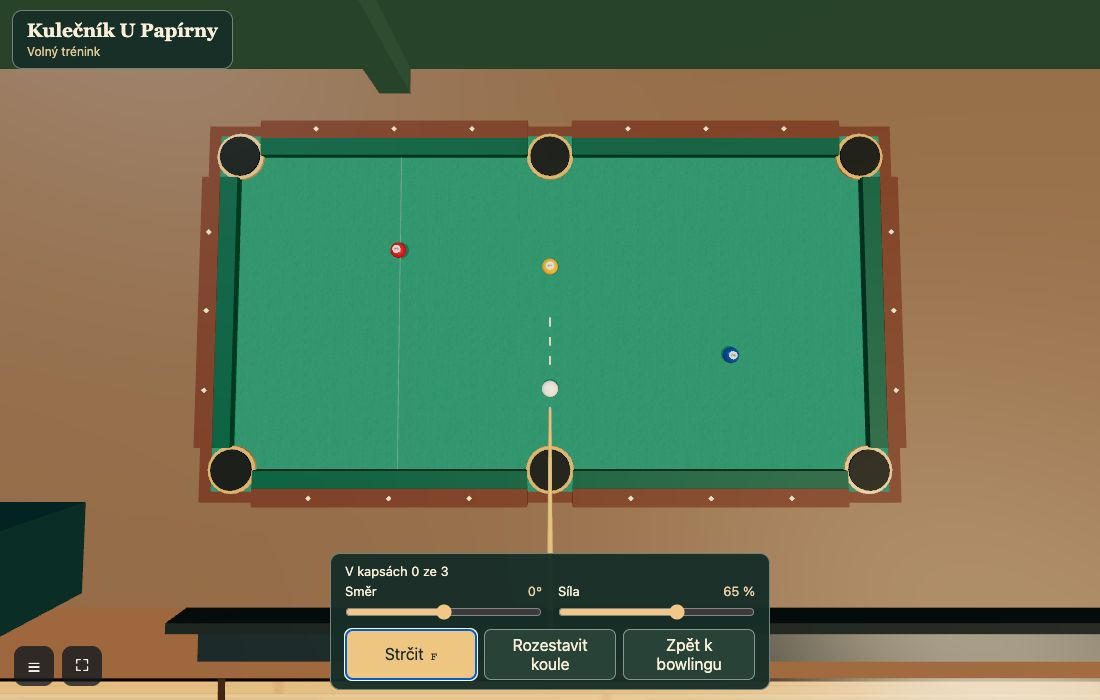
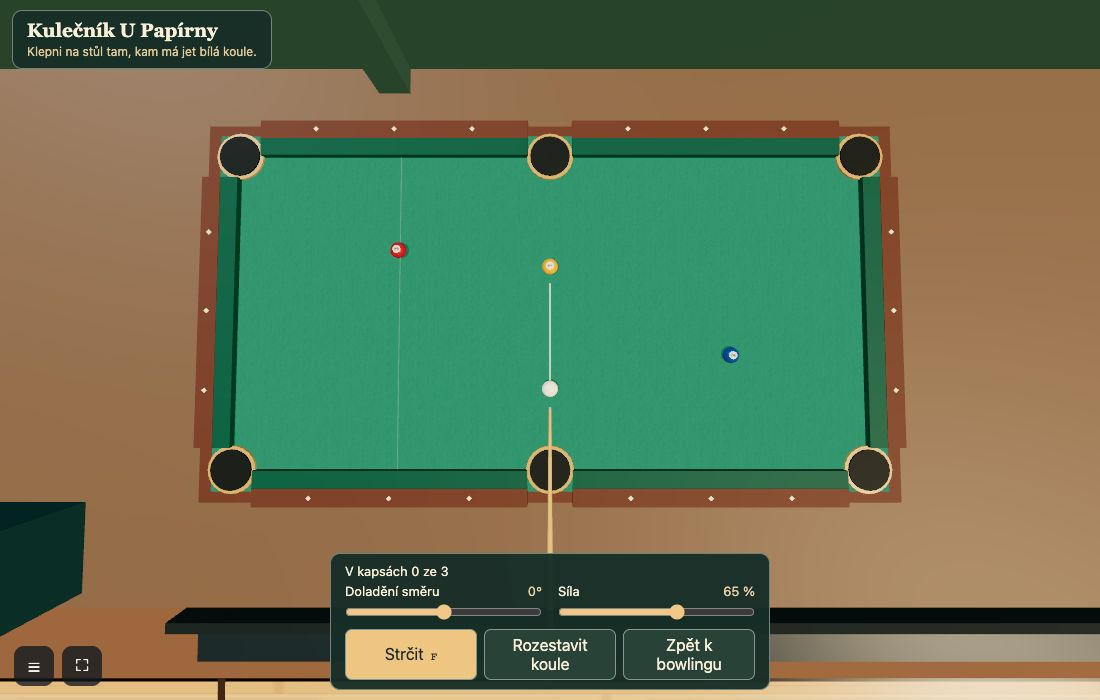
Umožnit míření přímo na kulečníkovém stole

Changed region(s): [[0.3091, 0.84, 0.4327, 0.99], [0.0309, 0.06, 0.2473, 0.09]]

diff --git a/src/game/pool-practice.js b/src/game/pool-practice.js
@@ -1,5 +1,5 @@
-import { PerspectiveCamera, Vector3 } from 'three/webgpu';
-import { BALL_RADIUS, BALL_STARTS, PoolTable } from '../physics/pool-table.js';
+import { PerspectiveCamera, Plane, Raycaster, Vector2, Vector3 } from 'three/webgpu';
+import { BALL_RADIUS, BALL_STARTS, HALF_LENGTH, HALF_WIDTH, POCKET_RADIUS, PoolTable } from '../physics/pool-table.js';
 
 const field = name => document.getElementById('pool-' + name);
 const clamp = (n, lo, hi) => Math.min(hi, Math.max(lo, n));
@@ -14,6 +14,19 @@ export class PoolPractice {
     this.target = new Vector3();
     this.startPosition = new Vector3();
     this.startRotation = this.camera.quaternion.clone();
+    this.raycaster = new Raycaster();
+    this.pointer = new Vector2();
+    this.aimPlane = new Plane(new Vector3(0, 1, 0));
+    const surface = field('aim-surface');
+    surface.onpointerdown = event => {
+      if (event.isPrimary && event.button === 0 && this.aimAt(event)) {
+        surface.setPointerCapture(event.pointerId);
+        field('hit').focus({ preventScroll: true });
+      }
+    };
+    surface.onpointermove = event => {
+      if (surface.hasPointerCapture(event.pointerId)) this.aimAt(event);
+    };
     this.angle.oninput = () => { this.degrees = this.angle.valueAsNumber; this.showAim(); };
     this.power.oninput = () => { this.strength = this.power.valueAsNumber; this.showAim(); };
     field('hit').onclick = () => this.action();
@@ -54,6 +67,25 @@ export class PoolPractice {
       mesh.position.set(BALL_STARTS[i][0], BALL_RADIUS, BALL_STARTS[i][1]);
     });
     document.getElementById('bowl-pool').focus({ preventScroll: true });
+  }
+
+  aimAt(event) {
+    if (!this.table || !this.bowling.canUse || this.table.rolling || this.table.complete) return false;
+    const rect = event.currentTarget.getBoundingClientRect();
+    this.pointer.set((event.clientX - rect.left) / rect.width * 2 - 1,
+      1 - (event.clientY - rect.top) / rect.height * 2);
+    const origin = this.bowling.room.pool.group.position;
+    this.aimPlane.constant = -(origin.y + BALL_RADIUS);
+    this.raycaster.setFromCamera(this.pointer, this.camera);
+    if (!this.raycaster.ray.intersectPlane(this.aimPlane, this.target)) return false;
+    const x = this.target.x - origin.x, z = this.target.z - origin.z;
+    if (Math.abs(x) > HALF_WIDTH + POCKET_RADIUS || Math.abs(z) > HALF_LENGTH + POCKET_RADIUS) return false;
+    const white = this.table.balls[0].GetPosition();
+    const dx = x - white.GetX(), dz = z - white.GetZ();
+    if (Math.hypot(dx, dz) < BALL_RADIUS) return false;
+    this.degrees = Math.atan2(dz, dx) * 180 / Math.PI;
+    this.showAim();
+    return true;
   }
 
   showAim() {
@@ -105,6 +137,25 @@ export class PoolPractice {
     cue.visible = !table.rolling && !table.complete;
     cue.position.copy(balls[0].position);
     cue.rotation.y = -this.degrees * Math.PI / 180;
+    if (cue.visible) {
+      const angle = -cue.rotation.y, dx = Math.cos(angle), dz = Math.sin(angle);
+      const { x, z } = cue.position;
+      // Konec čáry je místo, kam se dostane střed bílé před prvním dotykem.
+      let distance = Math.min(
+        Math.abs(dx) < 1e-8 ? Infinity : ((HALF_WIDTH - BALL_RADIUS) * Math.sign(dx) - x) / dx,
+        Math.abs(dz) < 1e-8 ? Infinity : ((HALF_LENGTH - BALL_RADIUS) * Math.sign(dz) - z) / dz);
+      for (let i = 1; i < balls.length; i++) {
+        if (!balls[i].visible) continue;
+        const bx = balls[i].position.x - x, bz = balls[i].position.z - z;
+        const along = bx * dx + bz * dz, across = bx * dz - bz * dx;
+        if (along > 0 && Math.abs(across) < 2 * BALL_RADIUS) {
+          distance = Math.min(distance, along - Math.sqrt((2 * BALL_RADIUS) ** 2 - across ** 2));
+        }
+      }
+      const length = Math.max(0, distance - BALL_RADIUS);
+      room.pool.guide.scale.x = length;
+      room.pool.guide.position.x = BALL_RADIUS + length / 2;
+    }
     const { clientWidth: width, clientHeight: height } = renderer.domElement;
     // Zaber celý stůl v prostoru mezi názvem herny a ovládáním.
     if (this.width !== width || this.height !== height) {

diff --git a/index.html b/index.html
@@ -103,10 +103,11 @@
         </div>
       </div>
       <div id="pool-panel" hidden>
-        <header><h2>Kulečník U Papírny</h2><span>Volný trénink</span></header>
+        <div id="pool-aim-surface" aria-hidden="true"></div>
+        <header><h2>Kulečník U Papírny</h2><span>Klepni na stůl tam, kam má jet bílá koule.</span></header>
         <div id="pool-console">
           <p id="pool-status" role="status"></p>
-          <label>Směr <output id="pool-angle-value">0°</output><input id="pool-angle" type="range" min="-180" max="180" step="1" value="0"></label>
+          <label>Doladění směru <output id="pool-angle-value">0°</output><input id="pool-angle" type="range" min="-180" max="180" step="1" value="0"></label>
           <label>Síla <output id="pool-power-value">65 %</output><input id="pool-power" type="range" min="10" max="100" value="65"></label>
           <div class="bowl-actions"><button id="pool-hit">Strčit <kbd>F</kbd></button><button id="pool-reset">Rozestavit koule</button><button id="pool-back">Zpět k bowlingu</button></div>
         </div>

diff --git a/src/entities/pool-table.js b/src/entities/pool-table.js
@@ -98,7 +98,9 @@ export function createPoolModel() {
   grip.rotation.z = -Math.PI / 2;
   const tip = part(new THREE.CylinderGeometry(.005, .005, .008, 10), material(0x83bac0), -.069, 0, 0, cue);
   tip.rotation.z = -Math.PI / 2;
-  for (const d of [.10, .17, .24]) part(new THREE.BoxGeometry(.031, .002, .005), ivory, d, -.026, 0, cue);
+  const guide = part(new THREE.BoxGeometry(1, .001, .006),
+    new THREE.MeshBasicMaterial({ color: 0xf3efcf, transparent: true, opacity: .76 }),
+    0, -.025, 0, cue);
   cue.visible = false;
-  return { group, balls, cue };
+  return { group, balls, cue, guide };
 }

diff --git a/src/style.css b/src/style.css
@@ -510,6 +510,7 @@ body.touch .bowl-actions kbd { display: none; }
   border-radius: 10px;
   padding: 9px 14px;
 }
+#pool-aim-surface { position: absolute; inset: 0; pointer-events: auto; touch-action: none; cursor: crosshair; }
 #pool-panel header { left: 12px; top: max(10px, env(safe-area-inset-top)); }
 #pool-panel h2 { margin: 0; font: 600 19px Georgia, serif; }
 #pool-panel header span { font-size: 12px; color: #e4c998; }

diff --git a/README.md b/README.md
@@ -21,7 +21,7 @@ verze v Godotu zůstává ve stavu z 20. 11. 2026 a nové funkce ani obsah se do
 
 - **Minigolf ve Škodalandu.** U půjčovny za příjezdovou cestou stiskni F. Nastav směr a sílu, zahraj tři různé jamky a mezi nimi dojdi ke značce. Na každou jamku máš sedm úderů. Nejlepší součet za celou partii se uloží. [Postup a snímky](docs/E54.md)
 
-- **Kulečník U Papírny.** Vejdi do bowlingu na Papírnické 3 a vyber **Ke kulečníku**. U stolu můžeš trénovat strky do šesti kapes a kdykoli se vrátit k rozehrané dráze. [Ovládání a zkoušky](docs/E63.md)
+- **Kulečník U Papírny.** Vejdi do bowlingu na Papírnické 3 a vyber **Ke kulečníku**. Kliknutím nebo dotykem na stole zamiř bílou kouli, nastav sílu a zvol **Strčit**. K rozehrané dráze se můžeš kdykoli vrátit. [Ovládání a zkoušky](docs/E63.md)
 
 - **Pěšky do MHD po celé herní oblasti.** U otevřených dveří stiskni F. Všechny pravidelné tramvaje, autobusy i trolejbusy mají interiér podle herního modelu. V Tatře můžeš nastoupit do obou samostatných vozů, v článkové tramvaji mezi články projdeš za jízdy. Do trolejbusu nastupuj předními dveřmi. Pokud místo u výstupu zabírá auto, počkej, až odjede, nebo přejdi k jiným dveřím. [Ovládání a ověřené trasy](docs/E62.md)
 - **Průchozí tramvaj linky 1.** V hlavní nabídce nebo v pauze klikni na **Svézt se MHD → Tramvaj Tatra**. Tlačítko nastaví čas odjezdu a postaví tě přímo do uličky. Do prvního vozu spoje 685462 směrem na Bolevec můžeš nastoupit, projít se za jízdy, sednout si k oknu a v zastávce vystoupit jinými dveřmi. [Výběr spoje](docs/E61.md) · [Kde nastoupit a jak vůz ovládat](docs/E59.md)

diff --git a/docs/codex/stav.md b/docs/codex/stav.md
@@ -2,6 +2,10 @@
 
 Na větvi `etapa/E63` z revize `eb5d900` je hotový první hratelný krok. Z bowlingové dráhy lze přejít k jednomu kulečníkovému stolu, mířit, nastavit sílu, potopit tři barevné koule a vrátit se k rozehranému bowlingu. Na klávesnici i dotyku prošel celý přechod v obou vykreslovačích. Prošlo sestavení, 408 testů JavaScriptu, 34 testů Pythonu (jeden další přeskočen) a osm zkoušek v Chromiu. Trénink ve Full HD na nízkou předvolbu dosáhl 60 FPS. Dalším navrženým krokem jsou pravidla osmičky. [Zadání](E63.md) · [Ovládání, snímky a měření](../E63.md)
 
+## Míření přímo na stole
+
+Po revizi `28f5840` lze směr vybrat kliknutím, dotykem nebo tažením. Světlá čára vede od bílé k prvnímu kontaktu. Síla i okamžik strku zůstávají v rukou hráče. Prošlo sestavení, všech 408 testů JavaScriptu a čtyři zkoušky kulečníku v Chromiu. Na počítači i emulovaném telefonu zkouška ověřila změnu cíle, potopení žluté a návrat ke dráze ve WebGL 2 i WebGPU.
+
 # E62 · Výstup vedle auta v Pařížské
 
 Na výchozí revizi `858cde2` dovolila hra vystoupit zadními dveřmi linky 33 i do místa obsazeného sedanem. V řízené zkoušce stál střed auta 55 cm od cílového bodu. Hra postavu nejprve umístila ke dveřím, po prvním kroku se střetem byla 95 cm od cíle. Ve třech jízdách původního místního sestavení s volným prostorem u dveří byl rozdíl pod 1 mm. Přesnou polohu auta z dřívějšího veřejného měření 67 cm neznáme.

diff --git a/docs/E63.md b/docs/E63.md
@@ -5,7 +5,7 @@ První krok etapy vychází z revize `eb5d900`. Ve společné herně na Papírni
 ## Jak si zahrát
 
 1. Na mapě vyhledej „kulečník“ a dojdi ke vstupu do Bowlingu U Papírny. Stiskni **F** nebo použij dotykové tlačítko u vchodu.
-2. U dráhy zvol **Ke kulečníku**. Směr a sílu nastav posuvníky nebo šipkami. Stiskni **F** nebo **Strčit**. Ve výchozím rozestavení míří bílá přes žlutou do prostřední kapsy.
+2. U dráhy zvol **Ke kulečníku**. Klikni nebo klepni na kouli či místo na stole. Podržením a tažením můžeš míření průběžně měnit. Světlá čára ukáže směr bílé. Sílu vyber posuvníkem a zahraj tlačítkem **Strčit** nebo klávesou **F**. Šipkami vlevo a vpravo můžeš směr doladit. Ve výchozím rozestavení míří bílá přes žlutou do prostřední kapsy.
 3. Počkej, až se koule zastaví. Po potopení bílé ji hra položí zpět na volné místo. Tlačítkem **Rozestavit koule** zahájíš nový trénink.
 4. **Zpět k bowlingu** tě vrátí k rozehrané partii. **Odejít** u dráhy vede před budovu. Při obnovení stránky platí dosavadní bezpečný návrat z herny.
 

diff --git a/docs/codex/E63.md b/docs/codex/E63.md
@@ -1,3 +1,5 @@
 # E63 · Tréninkový kulečník U Papírny
 
 Z revize `eb5d900` přidat do společné herny jeden stůl pro volný trénink. Hráč přejde od bowlingu ke stolu, nastaví směr a sílu strku, potopí kouli a vrátí se k rozehrané dráze. Použít stávající vstup na Papírnické 3 a pevný krok fyziky Jolt. Ověřit odrazy, kapsy, návrat bílé, opakování tréninku, klávesnici, dotyk a nízkou předvolbu.
+
+Zjednodušit míření výběrem bodu přímo na stole myší nebo prstem. Ukázat směr bílé před strkem a ponechat jemné nastavení i samostatné zahrání strku.
